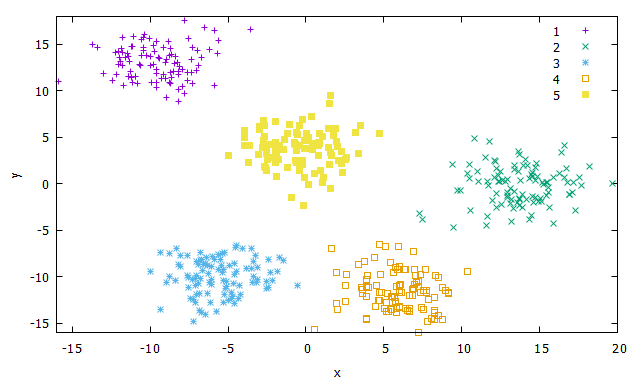
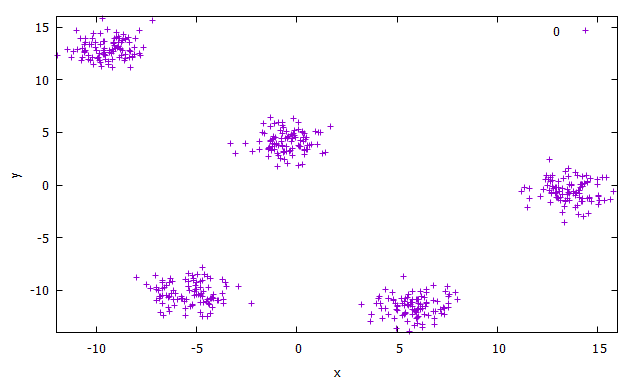
update clustering docs.

diff --git a/getting_started/clustering.rst b/getting_started/clustering.rst
@@ -9,11 +9,11 @@ with a distance metric in clustering algorithms [HAN2011]_.
 
 .. figure:: images/clustering/clusters.png
   :width: 450
-  :name: blobs-cluster
+  :name: blobs-data
   :align: center
-  :alt: Example of blobs dataset with 5 clusters..
+  :alt: Example of blobs dataset with 5 point clouds..
 
-  Example of blobs dataset with 5 clusters.
+  Example of blobs dataset with 5 point clouds.
 
 Partitioning methods
 ====================
@@ -28,6 +28,46 @@ The :math:`k`-Means algorithm
 The :math:`k`-means algorithm works by first assigning as centroids of the clusters :math:`k` random points from the dataset, representing the mean of the clusters. For each 
 remaining objects, each of them is assigned to the cluster were it is most similar based on the euclidean distance and the cluster mean. Then, it iteratively improves the within-cluster
 variation. At each iteration it computes the new clusters means using the objects assigned in the previous iteration and only stops when the assignment is stable, that is, the clusters
-formed in the current round are the same as those formed in the previous round [HAN2011]_.
+formed in the current round are the same as those formed in the previous round [HAN2011]_. :numref:`kmeans-blobs1` shows how to generate blobs artificial data for clustering algorithms, 
+plots the dataset, instantiates the :math:`k`-means clustering algorithm wrapper and train it.
+
+.. code-block:: cpp
+  :name: kmeans-blobs1
+  :caption: :math:`k`-means training on blobs dataset with :math:`k=5`
+
+  #include <ufjfmltk/ufjfmltk.hpp>
+
+  namespace visual = mltk::visualize;
+  namespace cluster = mltk::clusterer;
+
+  int main(){
+      auto data = mltk::datasets::make_blobs(100, 5, 2, 1, -15, 15,
+                                            true, false, 2).dataset;
+      visual::Visualization<double> vis(data);
+
+      vis.plot2D();
+
+      cluster::KMeans<double> kmeans(data, 5, "kmeanspp", 2, 1);
+
+      kmeans.train();
+      mltk::Data result = kmeans.batchEvaluate(data);
+      vis.setSample(result);
+      vis.plot2D();
+  }
+
+
+After training the model, the data can be passed to the method ``batchEvaluate`` that returns 
+a new dataset object with the points associated to the clusters. As we can see at :numref:`blobs-cluster`, the
+:math:`k`-means algorithm was able to correctly separate similar data in well defined clusters. 
+
+
+.. figure:: images/clustering/kmeans-result.png
+  :width: 450
+  :name: blobs-cluster
+  :align: center
+  :alt: Clustering result with :math:`k`-means.
+
+  Clustering result using :math:`k`-means with :math:`k=5`.
+
 
 .. [HAN2011] Han, Jiawei, Jian Pei, and Micheline Kamber. Data mining: concepts and techniques. Elsevier, 2011.
